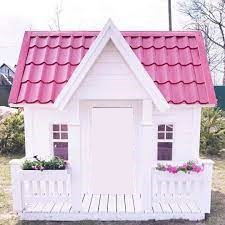
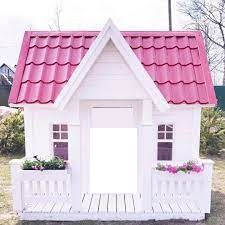
header

diff --git a/index.html b/index.html
@@ -36,23 +36,28 @@
     <div class="wrapper">
       <header class="header">
         <div class="container">
-          <h1>Найди  Кису</h1>
+          <div class="header-block">
+            <h1>Найди  Кису</h1>
+          <div class="header-img">
+            <img src="./img/cat.png" alt="">
+          </div>
+          </div>
         </div>
       </header>
       <main class="main">
         <div class="container">
           <div class="main-body">
+
             <div class="body-item">
               <div class="door"></div>
-              <div class="cat-block">
-                <img class="cat-img" src="img\cat.png" alt="">
-              </div>
               <img src="img\house.jpg" class="house-img" alt="">
             </div>
+
              <div class="body-item">
               <div class="door"></div>
               <img src="img\house.jpg" class="house-img" alt="">
             </div>
+
              <div class="body-item">
               <div class="door"></div>
               <img src="img\house.jpg" class="house-img" alt="">
@@ -60,10 +65,13 @@
           </div>
         </div>
       </main>
+
       <footer class="footer">
         <div class="container">footer</div>
       </footer>
     </div>
+
+    
 
     <script src="./js/vars.js" type="module"></script>
     

diff --git a/js/script.js b/js/script.js
@@ -1,18 +1,29 @@
 import { a, b} from "./vars.js";
-
 console.log(a,b);
-
 
 const doors = document.querySelectorAll('.door');
 
-console.log(doors);
+const bodyItems = document.querySelectorAll('.body-item');
 
+bodyItems.forEach(function (element){
+   element.addEventListener("click",catHere);
+})
+
+function catHere () {
+   this.insertAdjacentHTML("afterbegin",`<div class="cat-block">
+   <img class="cat-img" src="./img/cat.png" alt="">
+ </div>`)
+}
 
 doors.forEach(function (element) {
    element.addEventListener("click",anim);
 })
 
 function anim () {
-   this.classList.add("door-open")
+   this.classList.add("door-open");
+   
    console.log(this);
 }
+
+
+

diff --git a/css/style.css b/css/style.css
@@ -58,3 +58,4 @@ position: relative;
         height: 1%;
     }
 }
+
